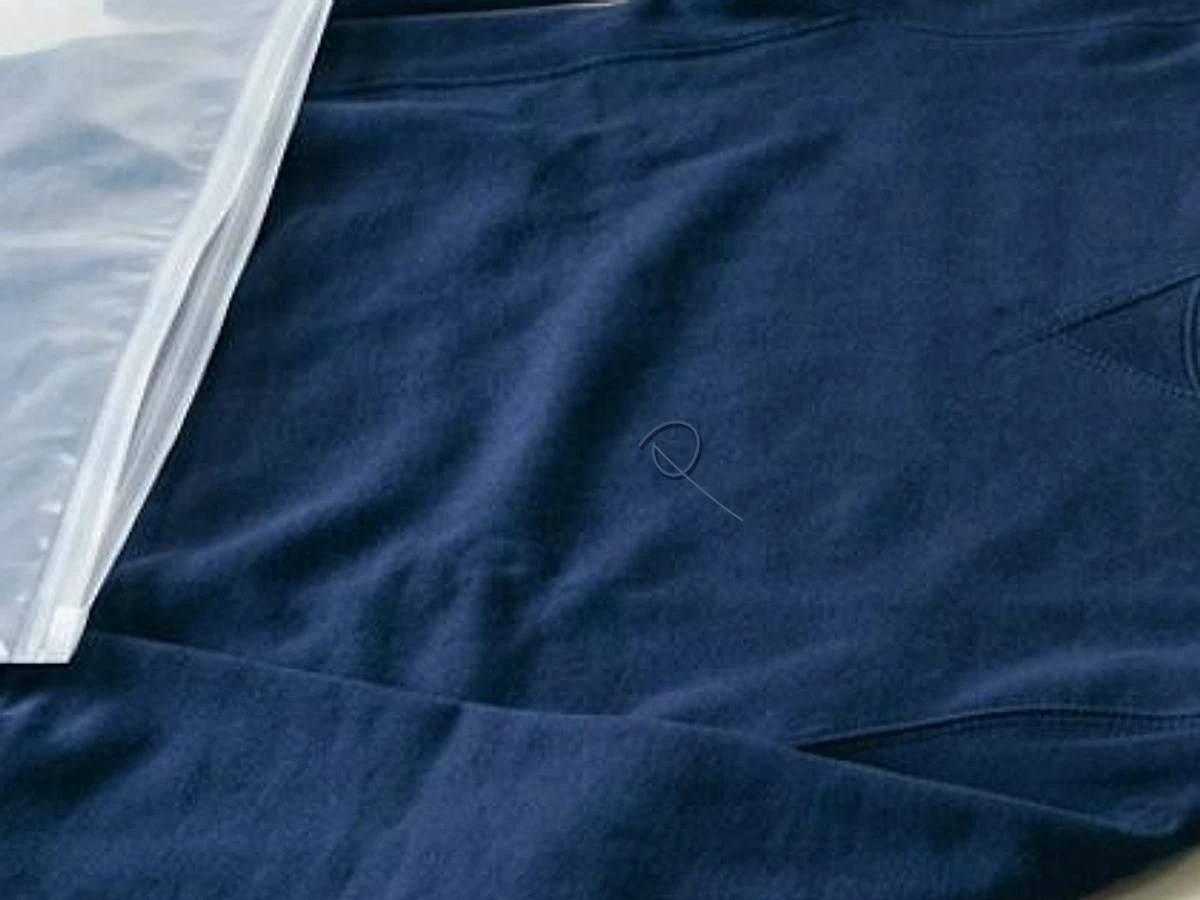
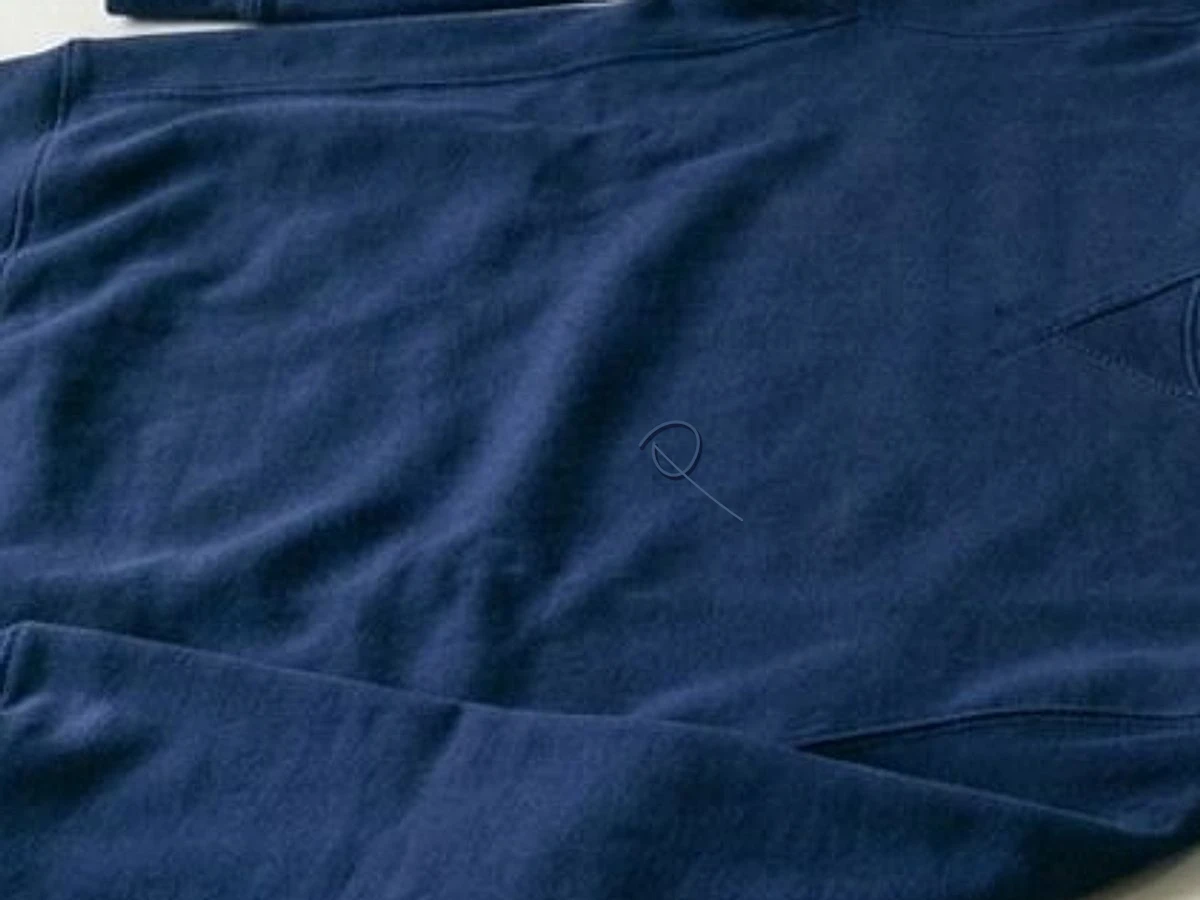
fix(marketing): balance 2-photo layout in catalog Section 04 and remove left transparent box from PH-09/PH-26

Changed region(s): [[0.0, 0.0, 0.37, 0.8089]]

diff --git a/app/public-site.tsx b/app/public-site.tsx
@@ -475,17 +475,45 @@ export function PublicServicesOverview() {
             </Link>
           </div>
         </div>
-        <div className="pub-service-photo-stack">
+        <figure className="pub-photo-box ratio-3-2">
+          <img
+            src="/marketing/service-golden-matching.webp"
+            alt="QCWarehouse inspector in white cotton gloves comparing two identical dark navy sweatshirts side by side next to a clear protective storage zip bag"
+            width={1350}
+            height={900}
+            loading="eager"
+          />
+        </figure>
+
+        <div className="pub-service-subrow">
+          <div>
+            <p className="pub-eyebrow">PROTECTED REFERENCE STORAGE &amp; CUSTODY LIFECYCLE</p>
+            <h3 style={{ fontSize: "1.22rem", color: "#0f213a", margin: "0 0 10px" }}>
+              Tamper-Sealed Reference Storage Between Reorders
+            </h3>
+            <p className="pub-lead" style={{ fontSize: 14, marginBottom: 14 }}>
+              After any inspection or comparison order, convert an approved unit into your retained Golden Sample. We seal it inside an individually barcoded sleeve and dedicated storage bin so future restock shipments are checked against the exact physical garment you signed off.
+            </p>
+            <div className="pub-meta-grid" style={{ margin: 0 }}>
+              <div className="pub-meta-cell">
+                <span>Included Free Window</span>
+                <strong>30 days complimentary custody from report publication</strong>
+              </div>
+              <div className="pub-meta-cell">
+                <span>Extended Retention</span>
+                <strong>$5.00 / item per 30-day storage renewal cycle</strong>
+              </div>
+              <div className="pub-meta-cell">
+                <span>Chain of Custody</span>
+                <strong>Tamper-evident seal + barcoded bin location tracking</strong>
+              </div>
+              <div className="pub-meta-cell">
+                <span>Post-Match Handling</span>
+                <strong>Automatically resealed &amp; returned to vault after each check</strong>
+              </div>
+            </div>
+          </div>
           <figure className="pub-photo-box ratio-3-2">
-            <img
-              src="/marketing/service-golden-matching.webp"
-              alt="QCWarehouse inspector comparing two identical navy sweatshirts side by side next to a clear protective storage zip bag"
-              width={1350}
-              height={900}
-              loading="eager"
-            />
-          </figure>
-          <figure className="pub-photo-box">
             <img
               src="/marketing/service-reference-storage.webp"
               alt="Tamper-sealed Golden Sample stored in a barcoded grey reference custody bin on the QCWarehouse bench"
@@ -801,6 +829,49 @@ export function PublicServiceDetail({
               <span>How It Differs</span>
               <strong>{cfg.distinction}</strong>
             </div>
+          </div>
+
+          <div style={{ borderTop: "1px solid #e6edf6", paddingTop: 16, marginTop: 4, display: "grid", gap: 12 }}>
+            <p className="pub-eyebrow" style={{ marginBottom: 0 }}>
+              {serviceCode === "reference_match"
+                ? "SEALED VAULT CUSTODY & RESEALING"
+                : "DELIVERABLES & POST-REPORT ROUTING"}
+            </p>
+            {serviceCode === "reference_match" ? (
+              <>
+                <figure className="pub-photo-box ratio-3-2">
+                  <img
+                    src="/marketing/service-reference-storage.webp"
+                    alt="Tamper-sealed Golden Sample stored in a barcoded grey reference custody bin on the QCWarehouse bench"
+                    width={1200}
+                    height={900}
+                    loading="eager"
+                  />
+                </figure>
+                <p className="small" style={{ margin: 0, color: "#42566e", lineHeight: 1.55 }}>
+                  Approved Golden Samples stay sealed inside barcoded sleeves and dedicated custody bins (30 days complimentary storage; $5.00 / 30-day renewal). After each comparison, the reference unit is resealed and logged back into storage.
+                </p>
+              </>
+            ) : (
+              <ul className="pub-check-list" style={{ marginTop: 0 }}>
+                <li>
+                  <b className="mark-ok">✓</b>
+                  <span><strong>Traceable Item Barcodes:</strong> Every arriving unit receives a unique sample ID linking its intake scan, flat tape readings, and photos.</span>
+                </li>
+                <li>
+                  <b className="mark-ok">✓</b>
+                  <span><strong>Two-Pass Measurement Verification:</strong> Out-of-tolerance readings trigger an automatic second independent tape pass with both raw values logged.</span>
+                </li>
+                <li>
+                  <b className="mark-ok">✓</b>
+                  <span><strong>Non-Destructive Defect Overlays:</strong> Reviewer-verified red coordinate boxes highlight defects in the web UI without altering original camera files.</span>
+                </li>
+                <li>
+                  <b className="mark-ok">✓</b>
+                  <span><strong>Per-Item Post-Report Disposition:</strong> Choose per unit whether to return to the seller in China, retain as a Golden Sample, or forward to your freight forwarder.</span>
+                </li>
+              </ul>
+            )}
           </div>
         </section>
 

diff --git a/app/marketing.css b/app/marketing.css
@@ -924,6 +924,16 @@
 .pub-service-detail.reverse {
   grid-template-columns: minmax(280px, 0.85fr) minmax(0, 1.2fr);
 }
+.pub-service-subrow {
+  grid-column: 1 / -1;
+  border-top: 1px solid #e6edf6;
+  padding-top: 24px;
+  margin-top: 4px;
+  display: grid;
+  grid-template-columns: minmax(0, 1.2fr) minmax(280px, 0.85fr);
+  gap: 28px;
+  align-items: center;
+}
 .pub-service-photo-stack {
   display: grid;
   gap: 12px;
@@ -2024,6 +2034,7 @@
   .pub-page-hero-split,
   .pub-service-detail,
   .pub-service-detail.reverse,
+  .pub-service-subrow,
   .pub-apparel-top,
   .pub-calc-grid,
   .pub-boundary-grid,
